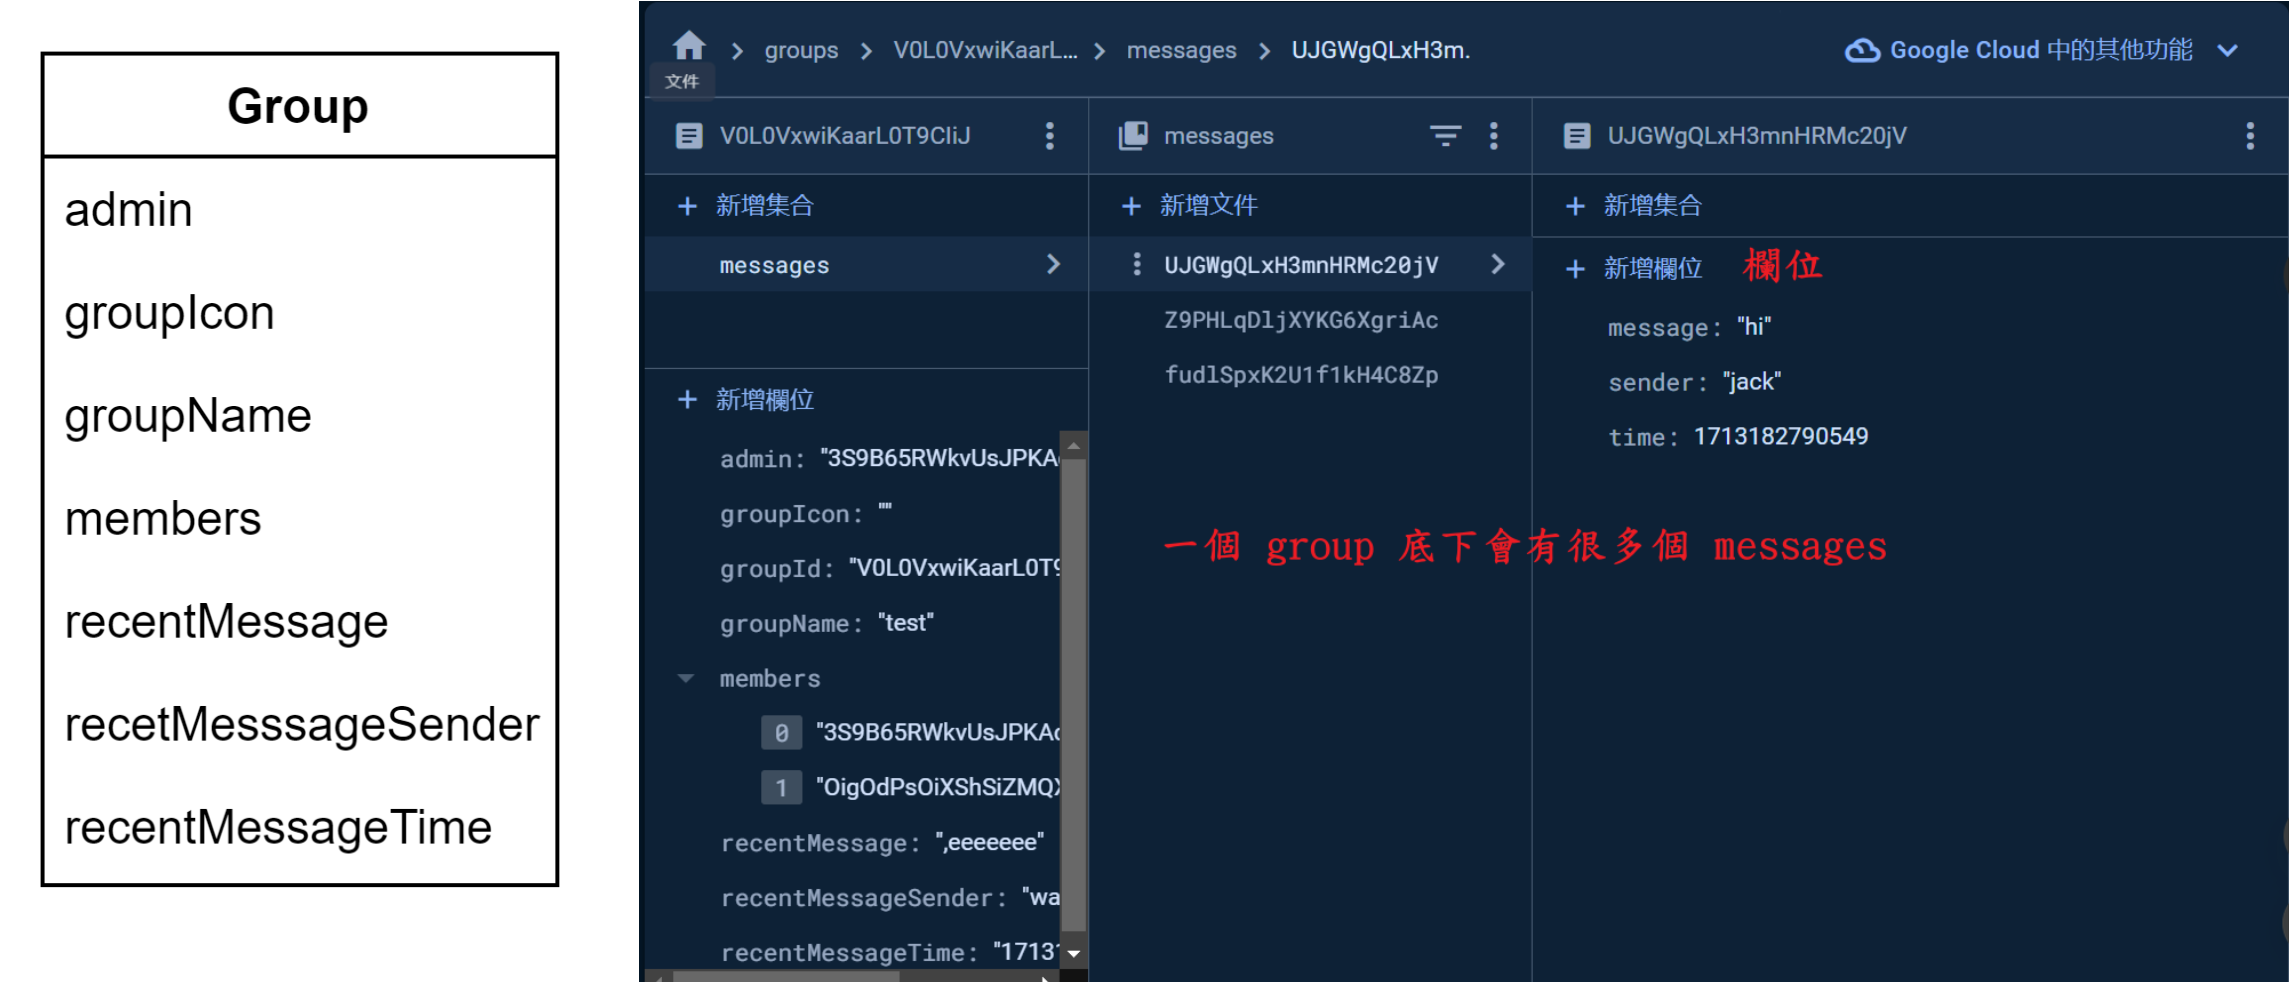
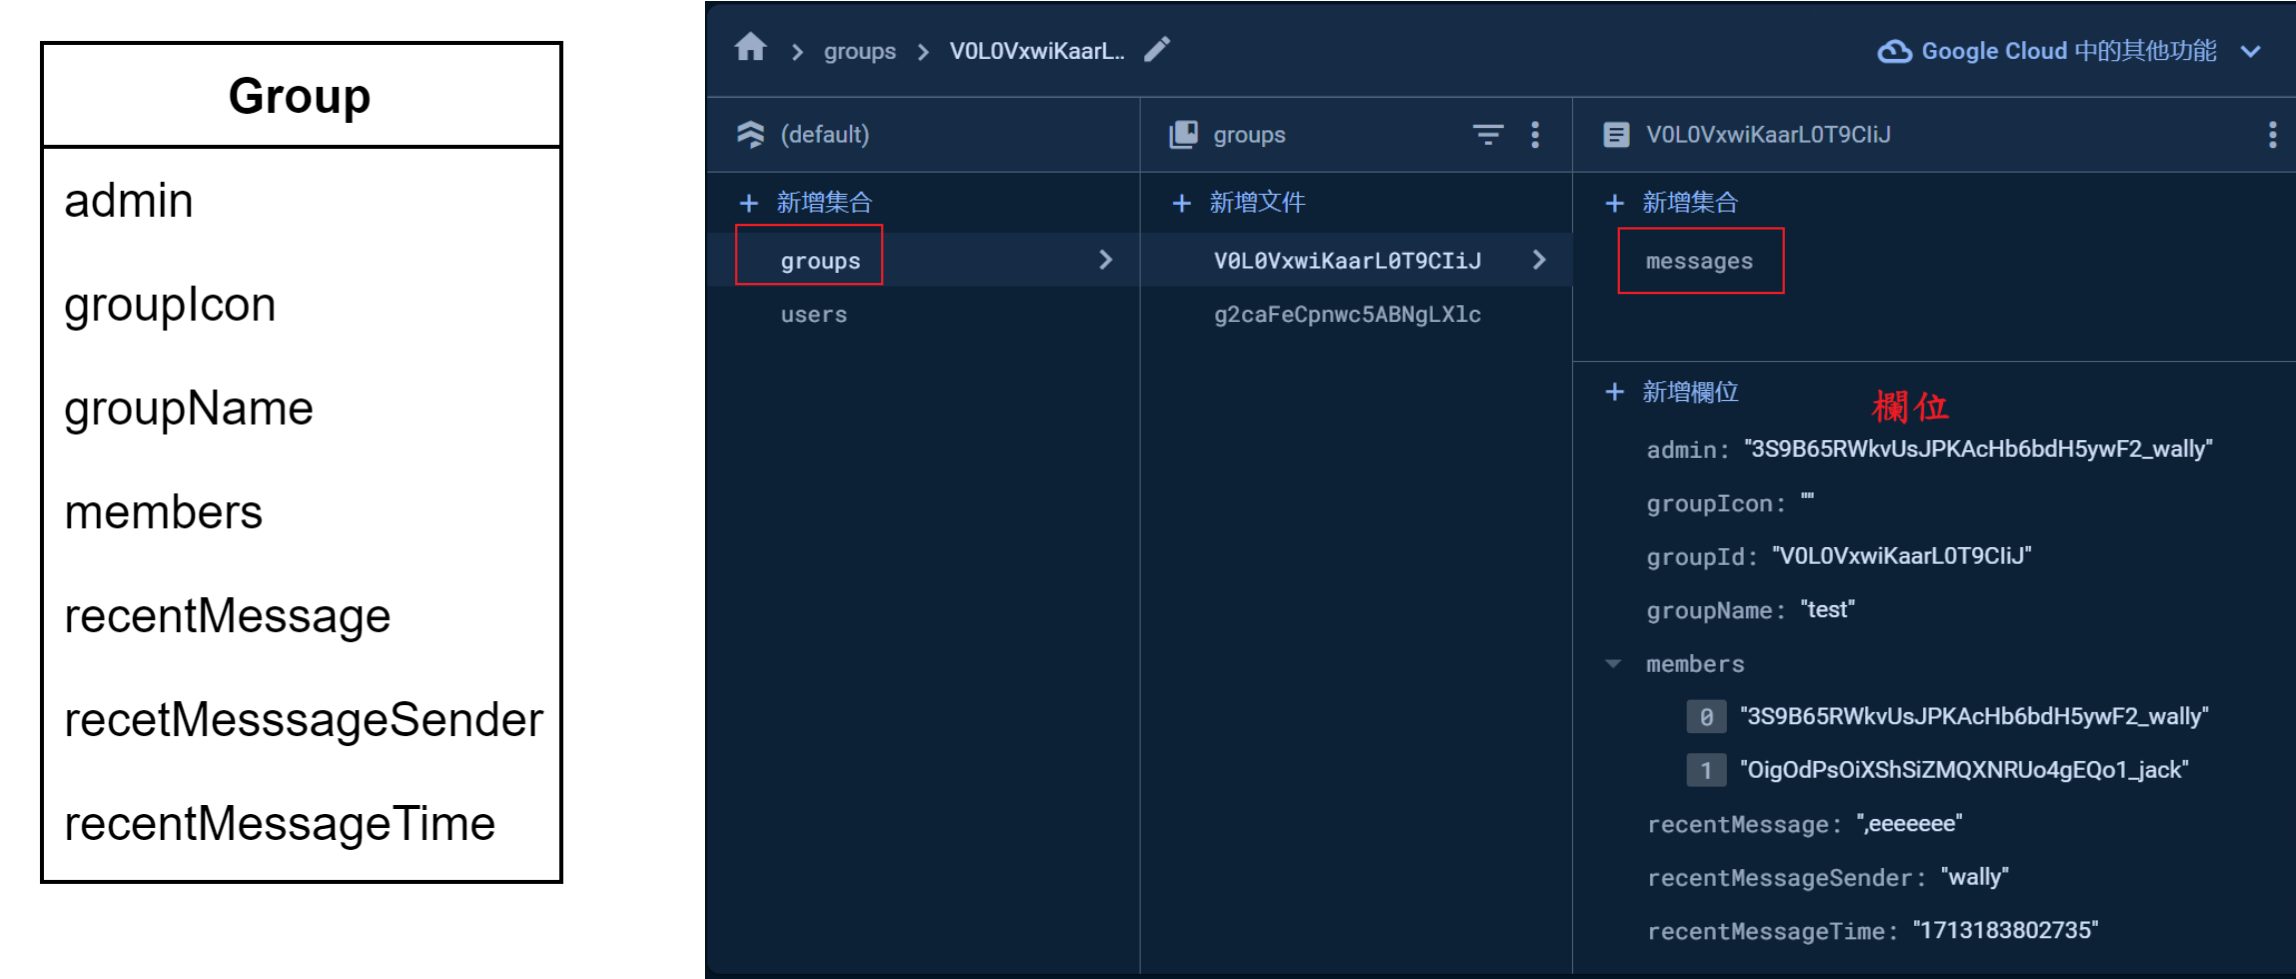
更新 group&message README

diff --git a/README.md b/README.md
@@ -11,4 +11,4 @@
 ### Group
 ![Group](images/image.png)
 ### Message
-![Message](images/message.png)
+![Message](images/image-1.png)
